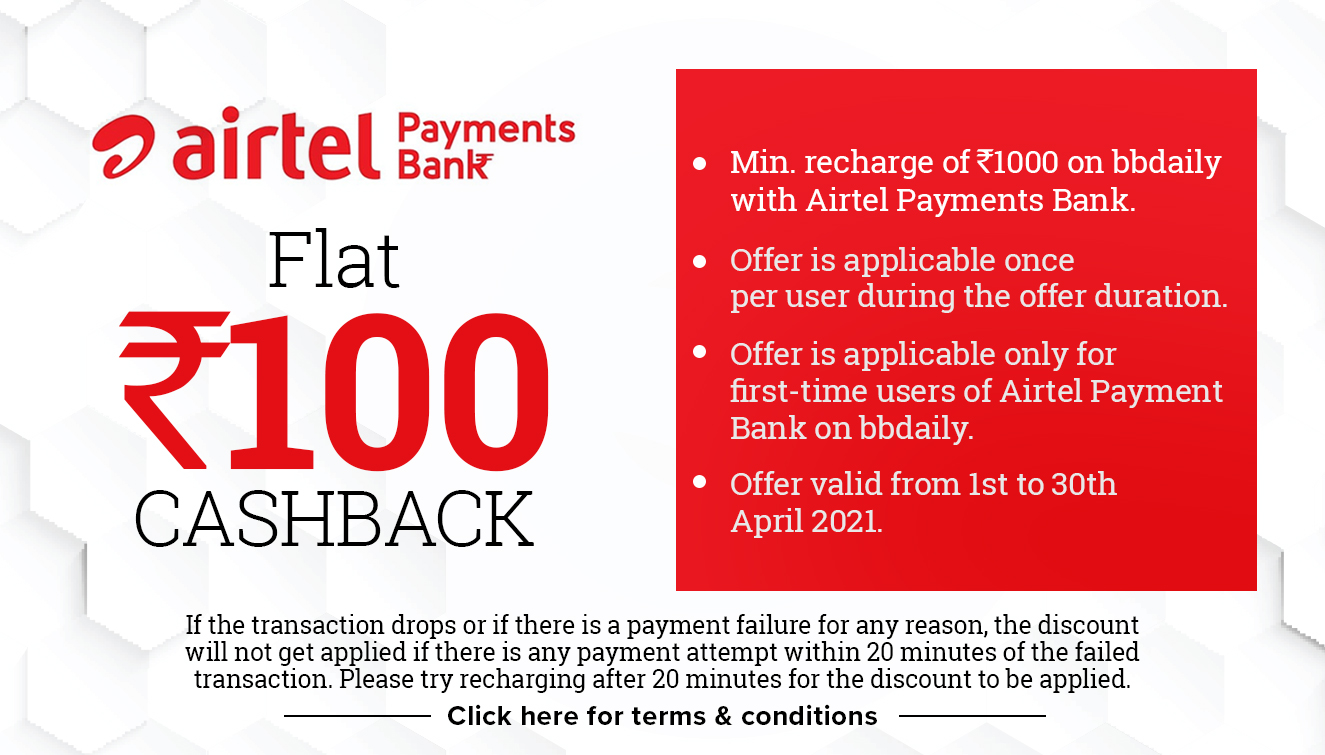
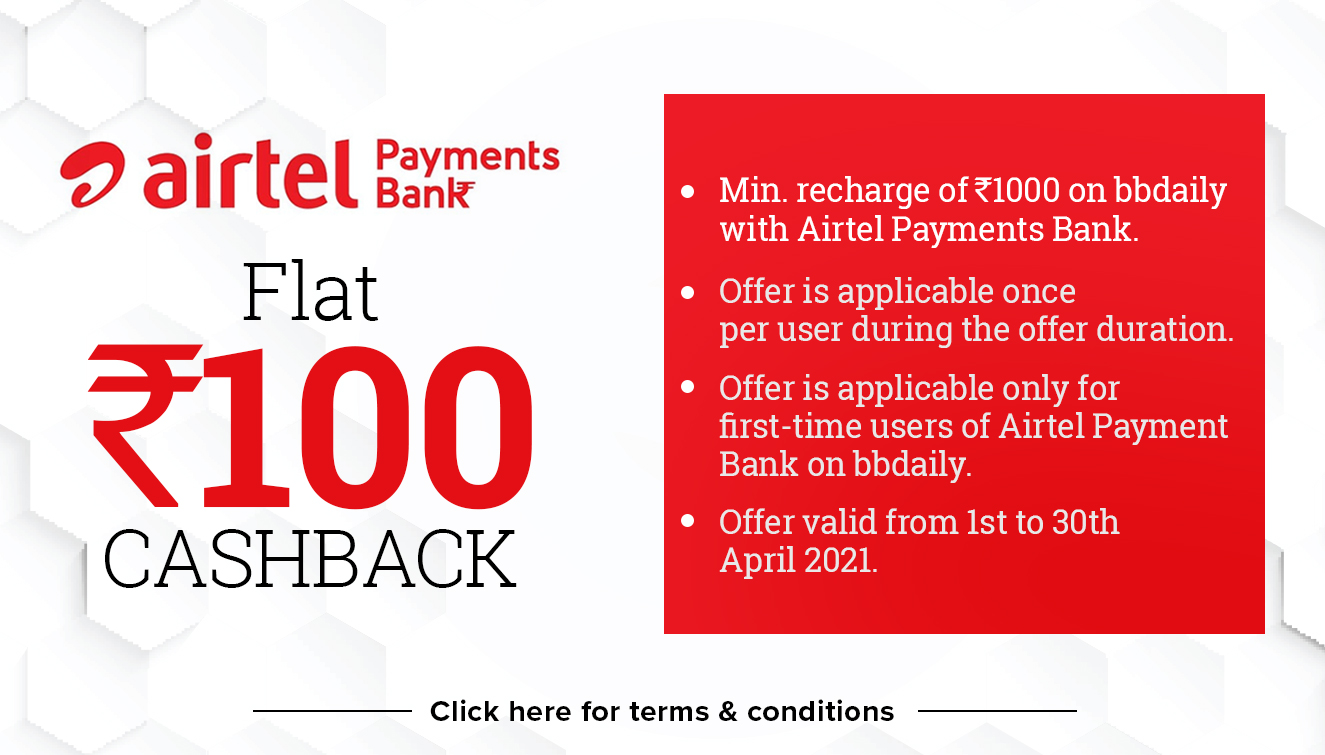
Version 1 Updated as requested in mail
offer Banner, Yes bank banner , HDFC banner added

Changed region(s): [[0.1238, 0.0914, 0.9592, 0.9748], [0.0619, 0.3046, 0.4332, 0.7921], [0.0309, 0.1219, 0.4332, 0.2742]]

diff --git a/free.html b/free.html
@@ -39,20 +39,6 @@
               }
         }
 
-              table {
-              font-family: arial, sans-serif;
-              border-collapse: collapse;
-              width: 100%;
-              max-width: 1000px;
-              margin-top: 5%;
-              }
-
-              td, th {
-              border: 1px solid #dddddd;
-              text-align: left;
-              padding: 8px;
-              }
-
         </style>  
         <script>
         $(document).ready(function () {
@@ -89,88 +75,65 @@
                     <h1>
                             Terms and Conditions
                       </h1>
-
-                      <table>
-                        <tr>
-                          <th>FO coupon Name</th>
-                          <th>no. of free deliveries</th>
-                          <th>no. of redemptions allowed (i.e. they can apply it to different SKUs)</th>
-                          <th>no. of free deliveries</th>
-                          <th>Max SP in the SIS</th>
-                          <th>Max value</th>
-                          <th>% recharge value back</th>
-                          <th>Recharge amount</th>
-                          <th>Callout</th>
-                      
-                          <tr>
-                              <td> FREE1000 </td>
-                              <td> 2 </td>
-                              <td> 2 </td>
-                              <td> 4 </td>
-                              <td> 40 </td>
-                              <td> 160 </td>
-                              <td> 16% </td>
-                              <td> 1000 </td>
-                              <td> Get free products worth upto Rs 160 </td>
-                        </tr>
-                        <tr>
-                              <td> FREE2000 </td>
-                              <td> 4 </td>
-                              <td> 2 </td>
-                              <td> 8 </td>
-                              <td> 40 </td>
-                              <td> 320 </td>
-                              <td> 16% </td>
-                              <td> 2000 </td>
-                              <td> Get free products worth upto Rs 320 </td>
-                        </tr>
-                        <tr>
-                              <td> FREE3000 </td>
-                              <td> 5 </td>
-                              <td> 5 </td>
-                              <td> 25 </td>
-                              <td> 40 </td>
-                              <td> 1000 </td>
-                              <td> 33% </td>
-                              <td> 3000 </td>
-                              <td> Get free products worth upto Rs 1000 </td>
-                        </tr>
-                      </table>
-
-                      <p class="text-left"style="padding-top:5%; font-weight:bold; font-size: 16px" >
-                        1. Offer applicable for all cities. <br>
-                        <br>
-                        2. Offer valid till 30th April 2021. <br>
-                        <br>
-                        3. Coupons are applicable once per address. <br>
-                        <br>
-                        4. Coupon: <br>
-                        <br>
-                        &emsp;FREE1000 is applicable only on a minimum first recharge of Rs.1000/-. FREE2000 is applicable only on a minimum first recharge of Rs.2000/-. <br>
-                        <br>
-                        &emsp;FREE3000 is applicable only on a minimum first wallet recharge of Rs.3000/-. <br>
-                        <br>
-                        5. FO customers can apply only one of the FREE1000, FREE2000, FREE3000 coupons. They cannot use any one of the BIG coupons also (BIG1000, BIG2000, BIG3000, BIG5000, and BIG10000) <br>
-                        <br>
-                        6. Customers should apply the coupon within one week of wallet recharge. <br>
-                        The number of people who can apply the coupon is limited on a first come first serve basis. <br>
-                        <br>
-                        7. Free products will be delivered as per the schedule i.e. Get Free delivery after every 4th paid delivery max. up to X number of deliveries. (X = number of free deliveries) <br>
-                        <br>
-                        &emsp;FREE1000: Get 2 free deliveries per SKU (product) <br>
-                        <br>
-                        &emsp;FREE2000: Get 4 free deliveries per SKU (product) <br>
-                        <br>
-                        &emsp;FREE3000: Get 5 free deliveries per SKU (product) <br>
-                        <br>
-                        8. Customers should maintain the minimum wallet balance of Rs 1000 throughout the subscription period, else the free product will not be delivered. <br>
-                        <br>
-                        9. Coupons are valid on a specific list of products including Tender Coconut, Banana, Bread, Eggs & more. Checkout the bbdaily app to know more details. <br>
-                        <br>
-                        10. Offer is void if the customer unsubscribes. <br>
-                        <br>
-                        11. Bigbasket reserves the right to withdraw the offer at any point in time. <br>
-                      </p>
+                        <div class="row mx-auto" >
+                              <div class="col-12">
+                              <a><img class="rounded img-fluid mx-auto d-block" src="img/bbdaily_4days_nonmilk_WebsiteBanner_1325x755.jpg" width="800px" height="400px" ></a></div>
+                        </div>
+                        <p class="text-left"style="padding-top:5%; font-weight:bold; font-size: 16px" >   
+                              T&C: <br>
+                              1. On a minimum recharge of Rs.1000/-. <br>
+                              2. Offer valid till 30th April 2021. <br>
+                              3. Offer valid only for New Users. Coupons are applicable once per address. <br>
+                              4. Offer applicable for all cities. <br>
+                              5. Users can redeem the same free1000 coupon 2 times i.e. on 2 different products. <br>
+                              6. Get Free delivery after every 4th paid delivery max. upto 2 free deliveries for each product. <br>
+                              7. Coupons are valid on a specific list of products including Tender Coconut, Banana, Bread, Eggs, Curd & more. Checkout the bbdaily app to know more details. <br>
+                              8. Users can avail the offer within one week of wallet recharge. Number of coupon redemptions is limited on a first come first serve basis. <br>
+                              9. In order to apply the coupon, Users should maintain the minimum wallet balance of Rs.1000/- throughout the subscription period, else the free product will not be delivered. <br>
+                              10. Users can avail only one of the following coupons free1000, free2000, free3000. Once availed the FO coupons, Users cannot use any one of the BIG coupons also (BIG1000, BIG2000, BIG3000, BIG5000, and BIG10000) which is for existing users. <br>
+                              11. Offer is void if the customer unsubscribes. <br>
+                              12. Bigbasket reserves the right to withdraw the offer at any point in time. <br>
+                         </p> 
+                        <div class="row mx-auto" style="padding-top:10%;">
+                              <div class="col-12">
+                              <a><img class="rounded img-fluid mx-auto d-block" src="img/bbdaily_8days_nonmilk_WebsiteBanner_1325x755.jpg" width="800px" height="400px" ></a></div>
+                        </div>
+                        <p class="text-left"style="padding-top:5%; font-weight:bold; font-size: 16px" >
+                              <br>
+                              T&C: <br>
+                              1. On a minimum recharge of Rs.2000/-. <br>
+                              2. Offer valid till 30th April 2021. <br>
+                              3. Offer valid only for New Users. Coupons are applicable once per address. <br>
+                              4. Offer applicable for all cities. <br>
+                              5. Users can redeem the same free2000 coupon 2 times i.e. on 2 different products. <br>
+                              6. Get Free delivery after every 4th paid delivery max. upto 4 free deliveries for each product. <br>
+                              7. Coupons are valid on a specific list of products including Tender Coconut, Banana, Bread, Eggs, Curd & more. Checkout the bbdaily app to know more details. <br>
+                              8. Users can avail the offer within one week of wallet recharge. Number of coupon redemptions is limited on a first come first serve basis. <br>
+                              9. In order to apply the coupon, Users should maintain the minimum wallet balance of Rs.1000/- throughout the subscription period, else the free product will not be delivered. <br>
+                              10. Users can avail only one of the following coupons free1000, free2000, free3000. Once availed the FO coupons, Users cannot use any one of the BIG coupons also (BIG1000, BIG2000, BIG3000, BIG5000, and BIG10000) which is for existing users. <br>
+                              11. Offer is void if the customer unsubscribes. <br>
+                              12. Bigbasket reserves the right to withdraw the offer at any point in time. <br>
+                        </p>   
+                        <div class="row mx-auto" style="padding-top:10%;">
+                              <div class="col-12">
+                              <a><img class="rounded img-fluid mx-auto d-block" src="img/bbdaily_25days_nonmilk_WebsiteBanner_1325x755.jpg" width="800px" height="400px" ></a></div>
+                        </div>
+                        <p class="text-left"style="padding-top:5%; font-weight:bold; font-size: 16px" >
+                              <br>
+                              T&C: <br>
+                              1. On a minimum recharge of Rs.3000/-. <br>
+                              2. Offer valid till 30th April 2021. <br>
+                              3. Offer valid only for New Users. Coupons are applicable once per address. <br>
+                              4. Offer applicable for all cities. <br>
+                              5. Users can redeem the same free3000 coupon 5 times i.e. on 5 different products. <br>
+                              6. Get Free delivery after every 4th paid delivery max. upto 5 free deliveries for each product. <br>
+                              7. Coupons are valid on a specific list of products including Tender Coconut, Banana, Bread, Eggs, Curd & more. Checkout the bbdaily app to know more details. <br>
+                              8. Users can avail the offer within one week of wallet recharge. Number of coupon redemptions is limited on a first come first serve basis. <br>
+                              9. In order to apply the coupon, Users should maintain the minimum wallet balance of Rs.1000/- throughout the subscription period, else the free product will not be delivered. <br>
+                              10. Users can avail only one of the following coupons free1000, free2000, free3000. Once availed the FO coupons, Users cannot use any one of the BIG coupons also (BIG1000, BIG2000, BIG3000, BIG5000, and BIG10000) which is for existing users. <br>
+                              11. Offer is void if the customer unsubscribes. <br>
+                              12. Bigbasket reserves the right to withdraw the offer at any point in time. <br>
+                        </p>     
               </div>  
         </div>
 </div>

diff --git a/yes.html b/yes.html
@@ -76,19 +76,19 @@
                       <p class="text-left"style="padding-top:5%; font-weight:bold; font-size: 16px" >
                         • Under the offer the eligible YES BANK Credit Card members can avail of a flat instant discount of Rs.200/- on a minimum recharge of Rs.2,500/- or more on bbdaily <br>
                         • Offer is valid on all Thursdays only during the offer period <br>
-                        • Offer Period: 1st March 2021 to 31st March 2021 <br>
+                        • Offer Period: 1st April 2021 to 30th April 2021 <br>
                         • Offer is valid only once per card during the offer period <br>
                         • Coupon Code with auto-apply. <br>
                         • Valid only on recharges made using YES Bank Credit Cards <br>
                         • The offer cannot be clubbed with any other offer <br>
                         • bigbasket and or bbdaily has the right to cancel orders if found to be of fraudulent nature <br>
                         • bigbasket and or bbdaily & YES BANK has the right to change/modify/add/delete any of the terms & conditions of the offer at any time without notice <br>
-                        <br>
+                         <br>
                         Who is eligible for the offer? <br>
                         • Offer is applicable for valid YES BANK Credit Cardmembers only (Not valid on Corporate/Commercial cardmembers). <br>
                         • Offer shall be valid during the Offer Period only. <br>
                         • YES BANK reserves the right to determine the eligibility of a Cardmember under the Offer during the Offer period <br>
-                        <br>
+                         <br>
                         Other Terms and Conditions: <br>
                         • Void/Disputed/Cancelled Transactions shall not be considered as a valid transaction for the purpose of the offer calculation <br>
                         • If a Cardmember ceases to be a Cardmember, at any time during the Offer Period, the Offer shall lapse and shall no more be available to such Cardmember <br>
@@ -97,6 +97,8 @@
                         • No queries shall be entertained after 90 days from the closure date of the Offer Period. The existence of a dispute, if any, regarding the Offer shall in no event constitute a claim against YES BANK <br>
                         • The participation in the Offer is entirely voluntary and it is understood, that the participation by the Cardmember/s shall be deemed to have been made on a voluntary basis <br>
                         • All disputes are subject to the exclusive jurisdiction of the competent courts/tribunals of Mumbai <br>
+                         <br>
+                        *If the transaction drops or if there is a payment failure for any reason, the discount will not get applied if there is any payment attempt within 20 minutes of the failed transaction. Please try recharging after 20 minutes for the discount to be applied. <br>
                         </p>
               </div>  
         </div>

diff --git a/faq.html b/faq.html
@@ -240,7 +240,7 @@ $(document).ready(function () {
                    Do you do same-day delivery and what are the delivery timings?
                 </h6>
                 <p style="text-align: justify;">
-                  When orders are placed before 10:00 PM, we do next day morning delivery before 8:00 AM.
+                  When orders are placed before 10:00 PM, we do next day morning delivery before 7:00 AM.
 
 
                 </p>
@@ -293,7 +293,7 @@ $(document).ready(function () {
 
                 </h6>
                 <p style="text-align: justify;">
-                 We charge a delivery fee in the form of a service charge. When you 'Subscribe' or 'Buy once' for a product, the service charge is only Re. 2/- per delivery slot. Delivery charges or service charges are charged for a day for: Only milk product delivery or Other product delivery (Eg: Fruits or vegetables) or Milk + Other products delivery. Delivery Charges only for Delhi: Fresh Milk + Milk Products (Eg: Paneer, Curd) is Rs. 2/-, Only grocery items without milk order in it is Rs. 2/-. If you shop for Fresh Milk + Grocery items your delivery charges are absolutely free.
+                 We charge a delivery fee in the form of a service charge. When you 'Subscribe' or 'Buy once' for a product, the service charge is only Re. 2/- per delivery slot. Delivery charges or service charges are charged for a day for: Only milk product delivery or Other product delivery (Eg: Fruits or vegetables) or Milk + Other products delivery.
 
 .
                 </p>

diff --git a/offers.html b/offers.html
@@ -137,12 +137,12 @@ $(document).ready(function () {
   </div>
 </div> -->
 
-<div class="container">
+<!-- <div class="container">
   <div class="row mx-auto">
   <div class="col-12">
     <a href="freedelivery.html" ><img class="rounded img-fluid mx-auto d-block" src="img/bbdaily_nonmilk_WebsiteBanner_1325x755.jpg" width="800px" height="400px" ></a></div>
   </div>
-</div>
+</div> -->
 
 
 <div class="container">
@@ -157,7 +157,7 @@ $(document).ready(function () {
 <!-- <div class="container">
     <div class="row mx-auto">
     <div class="col-12">
-      <a href="hdfc.html" ><img class="rounded img-fluid mx-auto d-block" src="img/bbdaily_websiteAffiliates(HDFC)_1325x755.jpg" width="800px" height="400px" ></a></div>
+      <a href="hdfc.html" ><img class="rounded img-fluid mx-auto d-block" src="img/bbdaily_HDFC_websiteAffiliates_1325x755.jpg" width="800px" height="400px" ></a></div>
     </div>
 </div>  -->
 
@@ -169,12 +169,12 @@ $(document).ready(function () {
     </div>
 </div> 
 
- <!-- <div class="container">
+ <div class="container">
   <div class="row mx-auto">
   <div class="col-12">
-    <a href="yes.html" ><img class="rounded img-fluid mx-auto d-block" src="img/bbdaily_websiteAffiliates(YesBank)_1325x755.jpg" width="800px" height="400px" ></a></div>
+    <a href="yes.html" ><img class="rounded img-fluid mx-auto d-block" src="img/bbdaily_yesbank_websiteAffiliates_1325x755.jpg" width="800px" height="400px" ></a></div>
   </div>
-</div>  -->
+</div> 
 
 <div class="container">
     <div class="row mx-auto">

diff --git a/airtel.html b/airtel.html
@@ -114,7 +114,6 @@ $(document).ready(function () {
                             14. Not applicable on Mastercard transactions <br>
                             15. Offer is not valid for Bharti Airtel & Airtel Payments Bank Employees <br>
                             <br>
-                            *If the transaction drops or if there is a payment failure for any reason, the discount will not get applied if there is any payment attempt within 20 minutes of the failed transaction. Please try recharging after 20 minutes for the discount to be applied. <br>
                           </p>
                   </div>  
             </div>

diff --git a/mobikwik.html b/mobikwik.html
@@ -79,9 +79,6 @@
                         - Offer valid on your 1st transaction of the month - Valid period: April 1st to 5th, 2021. <br>
                         - Code: <strong>BBD5</strong> <br>
                         <br>
-                        *If the transaction drops or if there is a payment failure for any reason, the discount will not get 
-                        applied if there is any payment attempt within 20 minutes of the failed transaction. 
-                        Please try recharging after 20 minutes for the discount to be applied. <br>
                       </p>
               </div>  
         </div>

diff --git a/icici.html b/icici.html
@@ -80,9 +80,6 @@
                         • Offer valid only once per user per month. <br>
                         • Cashback will be processed 60 days from the date of recharge <br>
                         <br>
-                        *If the transaction drops or if there is a payment failure for any reason, 
-                        the discount will not get applied if there is any payment attempt within 20 minutes of the failed transaction. 
-                        Please try recharging after 20 minutes for the discount to be applied. <br>
                       </p>
               </div>  
         </div>
